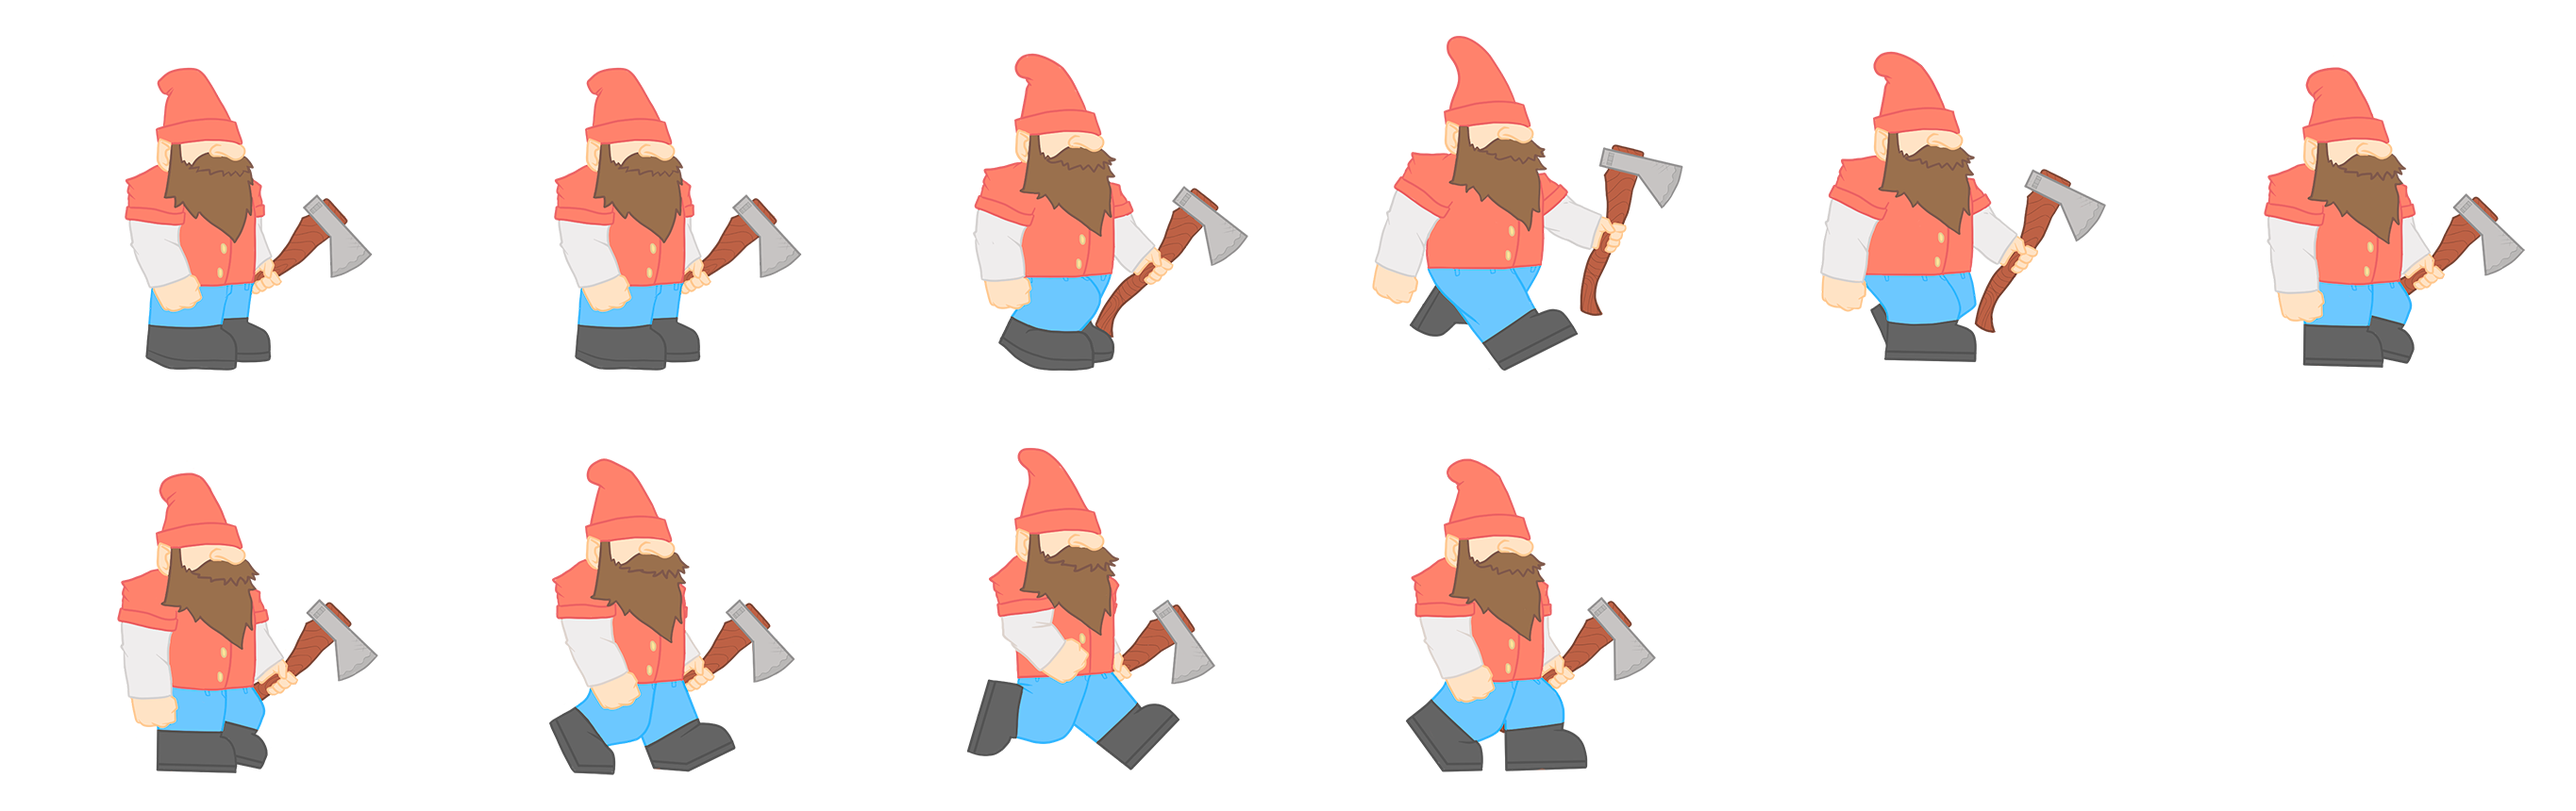
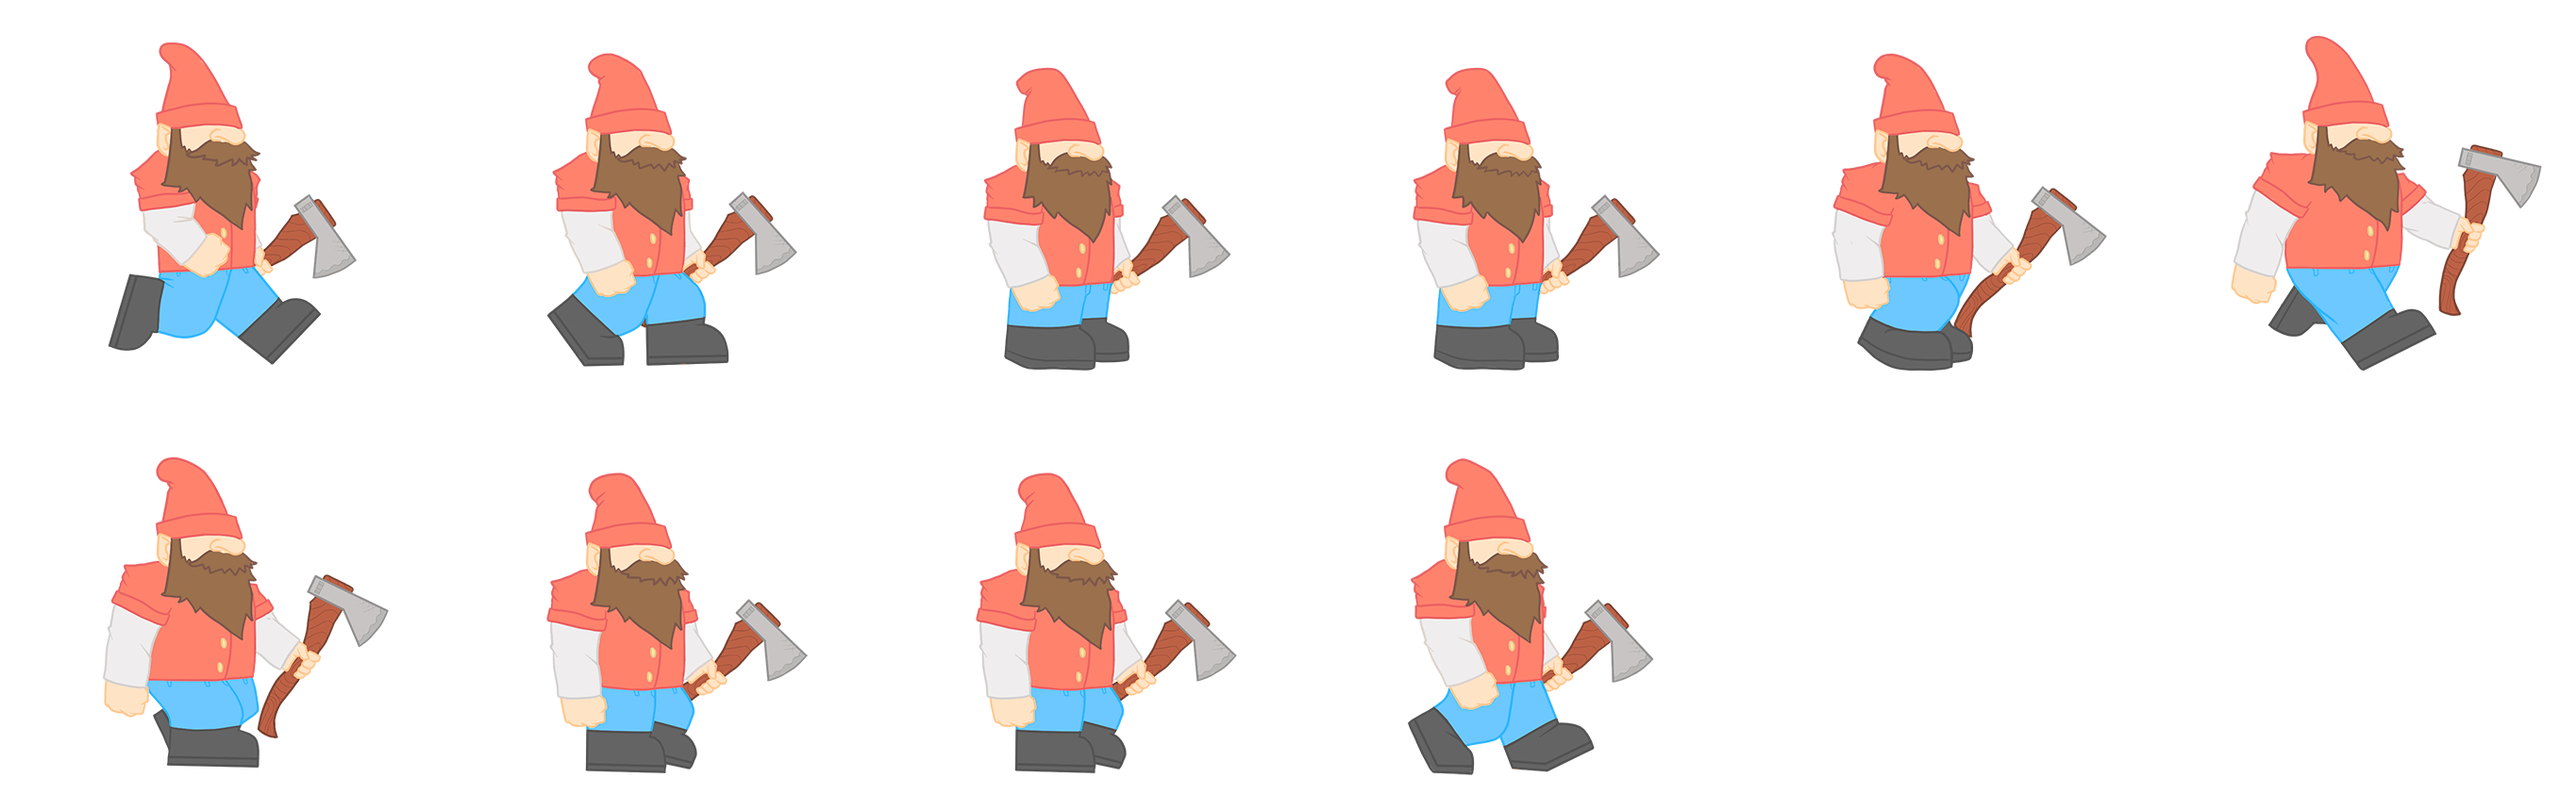
bug ARREGLADO

diff --git a/Game/js/input-manager.js b/Game/js/input-manager.js
@@ -19,6 +19,9 @@ export default class InputManager {
         this.initialMouseX = 0;
         this.initialMouseY = 0;
         this.maxMouseDistance = 125;
+
+        this.pointerX;
+        this.pointerY;
     }
 
     create() {
@@ -73,10 +76,6 @@ export default class InputManager {
                 that.isMouseMoving = true;
                 that.initialMouseX = pointer.x;
                 that.initialMouseY = pointer.y;
-                that.circle_UI_Base.x = that.initialMouseX;
-                that.circle_UI_Base.y = that.initialMouseY;
-                that.circle_UI.x = Phaser.Math.Clamp(pointer.x, that.initialMouseX - 150, that.initialMouseX + 150);
-                that.circle_UI.y = Phaser.Math.Clamp(pointer.y, that.initialMouseY - 150, that.initialMouseY + 150);
                 this.scene.tweens.add({
                     targets: that.circle_UI,
                     alpha: 0.65,
@@ -107,26 +106,11 @@ export default class InputManager {
         this.scene.input.on('pointermove', function (pointer) {
             // Comprobamos si el id del puntero es el mismo que inició el movimiento
             if (that.movementPointerId === pointer.id) {
-                
-                var module = UsefulMethods.vectorModule(pointer.x - that.initialMouseX, pointer.y - that.initialMouseY);
-                //var module = Math.sqrt(Math.pow(pointer.x - this.initialMouseX, 2) + Math.pow(pointer.y - this.initialMouseY, 2));
-
-                if(this.scene.combatHappening && this.scene.currentEnemy.enemyState == this.scene.currentEnemy.enemyStates.TIRED){
-                    var xMax = 0;
-                    var yMax = 0;
-                }else{
-                    var xMax = Math.abs((pointer.x - that.initialMouseX) / module) * that.maxMouseDistance;
-                    var yMax = Math.abs((pointer.y - that.initialMouseY) / module) * that.maxMouseDistance;
-                }
-
-                that.circle_UI.x = Phaser.Math.Clamp(pointer.x, that.initialMouseX - xMax, that.initialMouseX + xMax);
-                that.circle_UI.y = Phaser.Math.Clamp(pointer.y, that.initialMouseY - yMax, that.initialMouseY + yMax);
+                that.pointerX = pointer.x;
+                that.pointerY = pointer.y;
                 //this.circle_UI.x = pointer.x;
                 //this.circle_UI.y = pointer.y;
             }
-
-
-
         });
 
         // Cuando se suelta el click izquierdo del ratón, el personaje
@@ -159,6 +143,36 @@ export default class InputManager {
             }
 
         });
+    }
+
+    update() {
+        var module = UsefulMethods.vectorModule(this.pointerX - this.initialMouseX, this.pointerY - this.initialMouseY);
+
+        var xMax, yMax;
+        if ((this.scene.combatHappening && this.scene.currentEnemy.enemyState == this.scene.currentEnemy.enemyStates.TIRED) || module == 0) {
+            xMax = 0;
+            yMax = 0;
+        } else {
+            xMax = Math.abs((this.pointerX - this.initialMouseX) / module) * this.maxMouseDistance;
+            yMax = Math.abs((this.pointerY - this.initialMouseY) / module) * this.maxMouseDistance;
+        }
+
+        this.circle_UI_Base.setScale(1 / this.scene.cameras.main.zoom * this.circle_UI_Base_OriginalScale, 1 / this.scene.cameras.main.zoom * this.circle_UI_Base_OriginalScale);
+        this.circle_UI_Base.x = this.zoomPosX(this.initialMouseX);
+        this.circle_UI_Base.y = this.zoomPosY(this.initialMouseY);
+
+        this.circle_UI.setScale(1 / this.scene.cameras.main.zoom * this.circle_UI_OriginalScale, 1 / this.scene.cameras.main.zoom * this.circle_UI_OriginalScale);
+        this.circle_UI.x = this.zoomPosX(Phaser.Math.Clamp(this.pointerX, this.initialMouseX - xMax, this.initialMouseX + xMax));
+        this.circle_UI.y = this.zoomPosY(Phaser.Math.Clamp(this.pointerY, this.initialMouseY - yMax, this.initialMouseY + yMax));
+        console.log(module);
+    }
+
+    zoomPosX(oldPos) {
+        return (oldPos - this.scene.sys.game.config.width / 2) * (1 / this.scene.cameras.main.zoom) + this.scene.sys.game.config.width / 2;
+    }
+
+    zoomPosY(oldPos) {
+        return (oldPos - this.scene.sys.game.config.height / 2) * (1 / this.scene.cameras.main.zoom) + this.scene.sys.game.config.height / 2;
     }
 
 }

diff --git a/Game/js/level1.js b/Game/js/level1.js
@@ -76,8 +76,10 @@ export default class level1 extends Phaser.Scene {
     this.darkBackground.scaleX = UsefulMethods.RelativeScale(100, "x", this);
     this.darkBackground.scaleY = UsefulMethods.RelativeScale(100, "y", this);
 
+    this.add.sprite(UsefulMethods.RelativePosition(-35, "x", this), UsefulMethods.RelativePosition(83, "y", this), "House").setOrigin(0.5, 0.5).setDepth(8);
+
     // Se crea el objeto player en la escena.
-    this.player = new Player({ scene: this, x: UsefulMethods.RelativePosition(10, "x", this), y: UsefulMethods.RelativePosition(90, "y", this), texture: 'WalkingGnome', frame: 0 , HP: 5});
+    this.player = new Player({ scene: this, x: UsefulMethods.RelativePosition(10, "x", this), y: UsefulMethods.RelativePosition(90, "y", this), texture: 'WalkingGnome', frame: 2 , HP: 5});
     this.player.create();
     this.player.body.setOffset(0, -20);
     // this.player.onDie = () => {SoundManager.stopMusic(that.sys.game.currentMusic);}
@@ -722,6 +724,7 @@ export default class level1 extends Phaser.Scene {
     }
 
     this.uiContainer.update();
+    this.inputManager.update();
 
     this.whiteHealthBar.scaleX = UsefulMethods.lerp(this.whiteHealthBar.scaleX, this.healthBar.scaleX, 0.15);
     // #region Teclas y movimiento

diff --git a/Game/js/loading-screen.js b/Game/js/loading-screen.js
@@ -46,6 +46,7 @@ export default class LoadingScreen extends Phaser.Scene {
         this.load.image('StreetLight', 'assets/test/lightplaceholder.png');
         this.load.image('DarkBackground', 'assets/end-game-background.png');
         this.load.image('LogoJuego', 'assets/main-menu/logo.png');
+        this.load.image('House', 'assets/props/house.png');
         this.load.image('gnome-dead', ['assets/character/gnome-dead.png', 'assets/character/gnome-dead_n.png']);
         this.load.image('gnome-hurt', ['assets/character/gnome-hurt.png', 'assets/character/gnome-hurt_n.png']);
 
@@ -376,9 +377,8 @@ export default class LoadingScreen extends Phaser.Scene {
           });
           this.anims.create({
             key: 'GnomeStopAnim',
-            frames: this.anims.generateFrameNumbers('WalkingGnome', { start: 0, end: 0 }),
-            frameRate: 8,
-            repeat: -1
+            frames: [ { key: 'WalkingGnome', frame: 2 } ],
+            frameRate: 20
           });
           this.anims.create({
             key: 'GnomeHurt',

diff --git a/Game/js/player.js b/Game/js/player.js
@@ -207,7 +207,7 @@ export default class Player extends Phaser.Physics.Arcade.Sprite {
         if (this.direction == -1)
             this.direction = 0;
 
-        if ((this.direction >= 0) && this.playerState === this.playerStates.STOPPED && this.canMove) {
+        if ((this.direction > 0) && this.playerState === this.playerStates.STOPPED && this.canMove) {
             this.anims.play('GnomeWalkAnim');
             this.playerState = this.playerStates.WALKING;
         } else if (this.playerState === this.playerStates.WALKING && this.direction === 0) {
